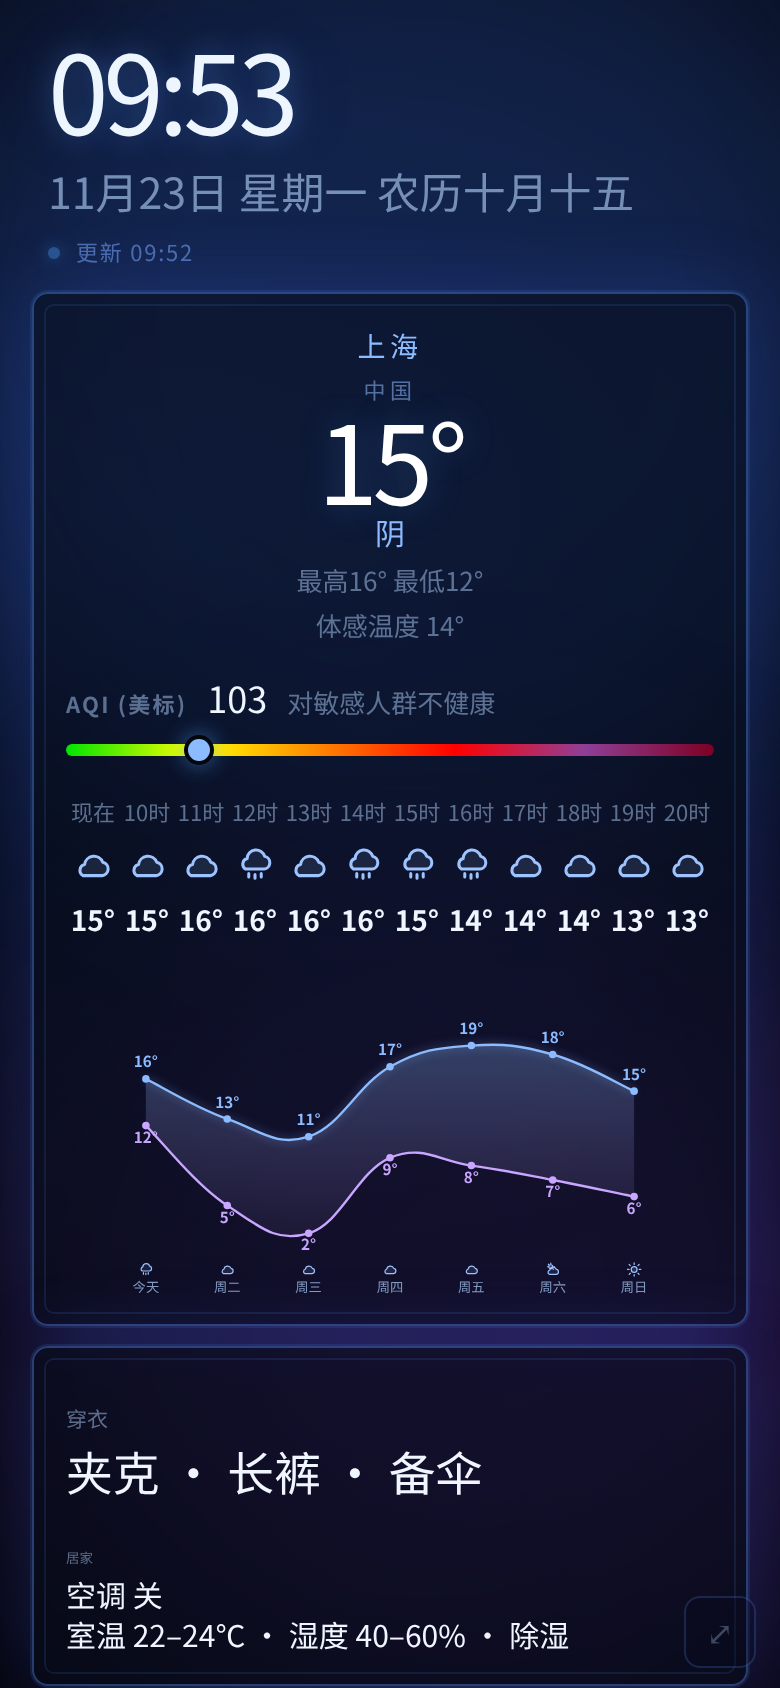
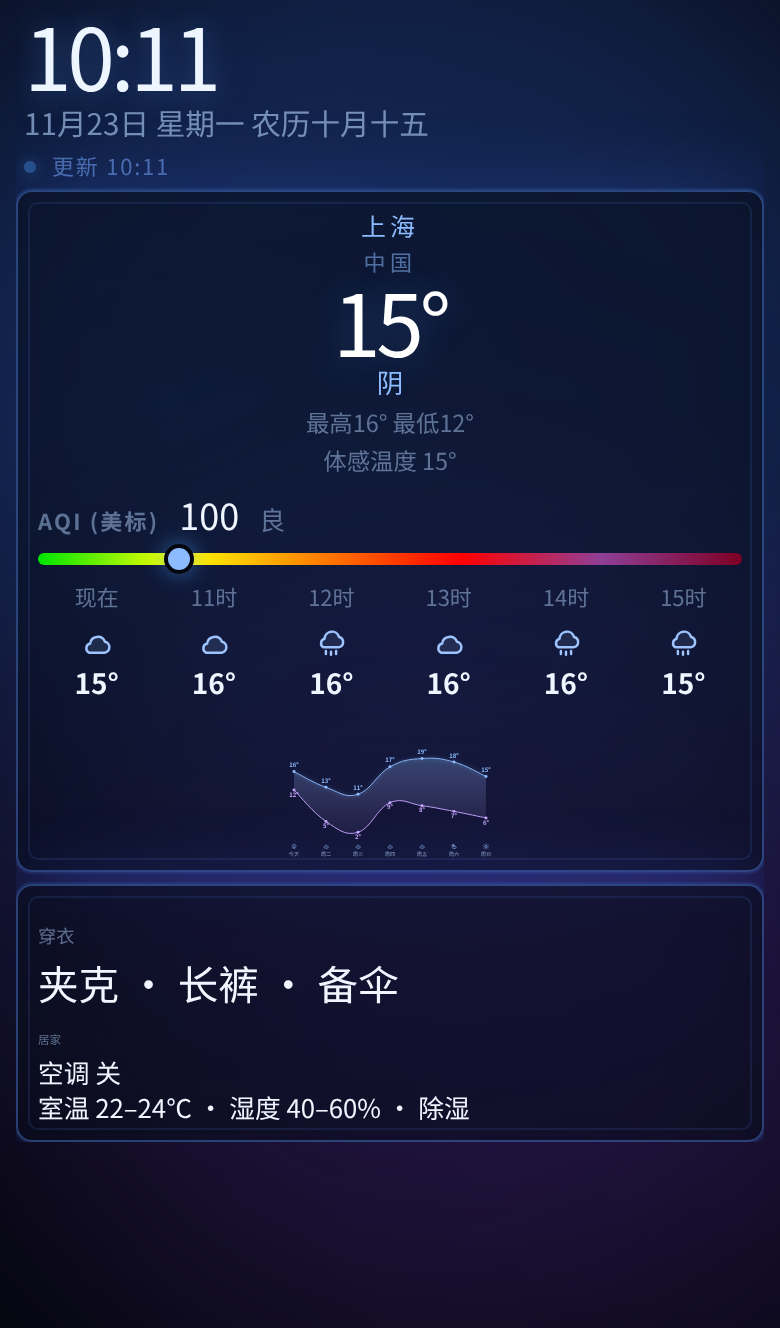
Fix phone portrait overflow and show place names
Keep all blocks on one portrait screen with a dvh/innerHeight
viewport, tighter type, a shorter week chart, and 6–8 hourly
slots. Reverse-geocode coordinates to a city or district name
via BigDataCloud, with Nominatim as fallback, and cache the result.

Changed region(s): [[0.0, 0.0, 0.9846, 1.0]]

diff --git a/index.html b/index.html
@@ -41,6 +41,7 @@
     height: 100%;
     height: 100vh;
     height: 100dvh;
+    height: var(--app-h, 100dvh);
     position: relative;
     background: #04060d;
     color: #dceaff;
@@ -87,6 +88,8 @@
     -webkit-flex: 1 1 auto;
     flex: 1 1 auto;
     min-height: 0;
+    height: 100%;
+    overflow: hidden;
     display: -webkit-box;
     display: -webkit-flex;
     display: flex;
@@ -387,17 +390,31 @@
   #fs-btn:hover, #fs-btn:focus { opacity: 1; outline: none; }
   #fs-btn.hidden { display: none; }
 
-  /* Narrow / portrait: time, weather, clothing stacked */
+  .fit-hide { display: none !important; }
+
+  /* Narrow / portrait: stack time, weather, clothing into one screen, no scroll */
   @media (orientation: portrait), (max-aspect-ratio: 1/1), (max-width: 700px) {
-    body { overflow: auto; height: auto; min-height: 100%; min-height: 100vh; min-height: 100dvh; }
+    html, body {
+      overflow: hidden;
+      height: 100%;
+      height: 100vh;
+      height: 100dvh;
+      height: var(--app-h, 100dvh);
+      min-height: 0;
+    }
+    body {
+      padding: 6px 8px;
+      padding: max(6px, env(safe-area-inset-top)) max(8px, env(safe-area-inset-right)) max(6px, env(safe-area-inset-bottom)) max(8px, env(safe-area-inset-left));
+    }
     .main {
       -webkit-flex-wrap: nowrap;
       flex-wrap: nowrap;
       -webkit-flex-direction: column;
       flex-direction: column;
-      height: auto;
-      min-height: calc(100vh - 24px);
-      min-height: calc(100dvh - 24px);
+      width: 100%;
+      height: 100%;
+      min-height: 0;
+      overflow: hidden;
     }
     .block-time, .block-wear, .block-weather {
       width: 100%;
@@ -405,30 +422,64 @@
     }
     .block-time {
       -webkit-box-ordinal-group: 2; -webkit-order: 1; order: 1;
-      padding: 8px 8px 12px;
+      padding: 2px 4px 4px;
+      -webkit-flex-shrink: 0;
+      flex-shrink: 0;
     }
     .block-weather {
       -webkit-box-ordinal-group: 3; -webkit-order: 2; order: 2;
       min-height: 0;
+      padding: 8px 10px 6px;
       -webkit-box-flex: 1; -webkit-flex: 1 1 auto; flex: 1 1 auto;
+      overflow: hidden;
     }
     .block-wear {
       -webkit-box-ordinal-group: 4; -webkit-order: 3; order: 3;
-      padding: 16px 16px;
-      margin-top: 10px;
+      padding: 8px 10px;
+      margin-top: 6px;
       -webkit-flex-shrink: 0;
       flex-shrink: 0;
     }
     #clock, #now-temp {
-      font-size: 64px;
-      font-size: 14vw;
-      font-size: clamp(52px, 14vw, 120px);
+      font-size: 44px;
+      font-size: 11vw;
+      font-size: clamp(36px, 11vw, 72px);
     }
     #date-line {
-      font-size: 20px;
-      font-size: clamp(18px, 5.5vw, 36px);
+      margin-top: 6px;
+      font-size: 15px;
+      font-size: clamp(13px, 3.8vw, 20px);
     }
-    .days { min-height: 120px; height: 18vh; }
+    #updated { margin-top: 4px; }
+    .loc { font-size: 13px; font-size: clamp(12px, 3.2vw, 16px); }
+    .loc-sub { font-size: 11px; margin-top: 1px; }
+    #now-desc { font-size: 14px; font-size: clamp(13px, 3.4vw, 16px); }
+    #now-hl, #now-feel { font-size: 12px; font-size: clamp(11px, 3vw, 14px); margin-top: 2px; }
+    .aqi { margin-top: 6px; }
+    .aqi-bar { margin-top: 6px; }
+    .hours { margin-top: 6px; }
+    .hour { padding: 2px 0 0; }
+    .hour .e { height: 22px; margin: 2px 0 1px; }
+    .hour .e svg { width: 18px; height: 18px; }
+    .hour .p { height: 14px; }
+    .days {
+      margin-top: 4px;
+      min-height: 0;
+      height: auto;
+      -webkit-box-flex: 1;
+      -webkit-flex: 1 1 auto;
+      flex: 1 1 auto;
+    }
+    .wear-row {
+      font-size: 22px;
+      font-size: clamp(16px, 5.2vw, 26px);
+      margin-bottom: 6px;
+    }
+    .wear-row.home {
+      font-size: 13px;
+      font-size: clamp(12px, 3.3vw, 16px);
+    }
+    #fs-btn { display: none; }
   }
 </style>
 </head>
@@ -730,12 +781,6 @@ var CONFIG = {
       if (onErr) onErr(e3);
     }
   }
-  function displayCity(name) {
-    if (!name) return "";
-    if (!isEn() && String(name).toLowerCase() === "shanghai") return "上海";
-    if (isEn() && name === "上海") return "Shanghai";
-    return name;
-  }
   function formatCoords(lat, lon) {
     var ns = lat >= 0 ? "N" : "S";
     var ew = lon >= 0 ? "E" : "W";
@@ -763,24 +808,123 @@ var CONFIG = {
     var url = "https://geocoding-api.open-meteo.com/v1/search?name=" + encodeURIComponent(name) + "&count=1&language=" + lang + "&format=json";
     getJSON(url, 10000, function (data) { cb(pickGeoResult(data)); }, function () { cb(null); });
   }
+  function shortPlace(name) {
+    var s = trim(name);
+    if (!s) return "";
+    s = s.replace(/(市|省|特别行政区|自治区|Municipality|Province|Prefecture|City)$/i, "");
+    return trim(s) || trim(name);
+  }
+  function geoCacheKey(lat, lon, lang) {
+    return "wcd-revgeo-v1:" + Number(lat).toFixed(2) + "," + Number(lon).toFixed(2) + ":" + lang;
+  }
+  function readGeoCache(lat, lon, lang) {
+    try {
+      var raw = localStorage.getItem(geoCacheKey(lat, lon, lang));
+      var o;
+      if (!raw) return null;
+      o = JSON.parse(raw);
+      if (!o || !o.name) return null;
+      if (o.at && ((new Date()).getTime() - o.at > 30 * 24 * 60 * 60 * 1000)) return null;
+      return { name: o.name, sub: o.sub || "", tz: o.tz || "" };
+    } catch (e) { return null; }
+  }
+  function writeGeoCache(lat, lon, lang, info) {
+    try {
+      localStorage.setItem(geoCacheKey(lat, lon, lang), JSON.stringify({
+        name: info.name, sub: info.sub || "", tz: info.tz || "", at: (new Date()).getTime()
+      }));
+    } catch (e) {}
+  }
+  function parseNominatim(data) {
+    var a, name, sub, i, opts;
+    if (!data || !data.address) return null;
+    a = data.address;
+    name = a.city || a.town || a.city_district || a.district || a.county || a.village || a.municipality || a.suburb || "";
+    if (!name) return null;
+    opts = [a.town, a.city_district, a.district, a.suburb, a.county, a.village, a.municipality];
+    sub = "";
+    for (i = 0; i < opts.length; i++) {
+      if (opts[i] && !samePlaceName(opts[i], name)) { sub = opts[i]; break; }
+    }
+    return { name: shortPlace(name), sub: sub, tz: "" };
+  }
+  function parseBDC(data) {
+    var name, sub, admins, i, lv, nm, info, tz, block, items;
+    if (!data) return null;
+    name = data.city || data.locality || "";
+    sub = data.locality || "";
+    info = data.localityInfo || {};
+    admins = info.administrative || [];
+    if (!name) {
+      for (i = 0; i < admins.length; i++) {
+        lv = Number(admins[i].adminLevel);
+        nm = admins[i].name || "";
+        if ((lv === 5 || lv === 6 || lv === 4) && nm) { name = nm; break; }
+      }
+    }
+    if (!name) return null;
+    if (samePlaceName(sub, name)) sub = "";
+    if (!sub) {
+      for (i = admins.length - 1; i >= 0; i--) {
+        lv = Number(admins[i].adminLevel);
+        nm = admins[i].name || "";
+        if (lv >= 6 && nm && !samePlaceName(nm, name)) { sub = nm; break; }
+      }
+    }
+    tz = "";
+    items = info.informative || [];
+    for (i = 0; i < items.length; i++) {
+      nm = items[i].name || "";
+      if (nm.indexOf("/") > 0 && nm.indexOf(" ") < 0) { tz = nm; break; }
+    }
+    return { name: shortPlace(name), sub: sub, tz: tz };
+  }
+  function reverseNominatim(lat, lon, lang, cb) {
+    var loc = (lang === "en") ? "en" : "zh-CN";
+    var url = "https://nominatim.openstreetmap.org/reverse?lat=" + encodeURIComponent(lat) +
+      "&lon=" + encodeURIComponent(lon) + "&format=jsonv2&accept-language=" + encodeURIComponent(loc);
+    getJSON(url, 8000, function (data) { cb(parseNominatim(data)); }, function () { cb(null); });
+  }
+  function reverseBDC(url, cb) {
+    getJSON(url, 8000, function (data) { cb(parseBDC(data)); }, function () { cb(null); });
+  }
   function reverseGeocode(lat, lon, cb) {
     var lang = isEn() ? "en" : "zh";
-    var url = "https://geocoding-api.open-meteo.com/v1/reverse?latitude=" + encodeURIComponent(lat) + "&longitude=" + encodeURIComponent(lon) + "&language=" + lang + "&format=json&count=1";
-    getJSON(url, 8000, function (data) { cb(pickGeoResult(data)); }, function () { cb(null); });
+    var locLang = isEn() ? "en" : "zh-Hans";
+    var cached = readGeoCache(lat, lon, lang);
+    var q1, q2;
+    if (cached && cached.name) { cb(cached); return; }
+    function finish(info) {
+      if (info && info.name) writeGeoCache(lat, lon, lang, info);
+      cb(info && info.name ? info : null);
+    }
+    q1 = "https://api.bigdatacloud.net/data/reverse-geocode-client?latitude=" + encodeURIComponent(lat) +
+      "&longitude=" + encodeURIComponent(lon) + "&localityLanguage=" + encodeURIComponent(locLang);
+    q2 = "https://api-bdc.io/data/reverse-geocode-client?latitude=" + encodeURIComponent(lat) +
+      "&longitude=" + encodeURIComponent(lon) + "&localityLanguage=" + encodeURIComponent(locLang);
+    reverseBDC(q1, function (info) {
+      if (info && info.name) { finish(info); return; }
+      reverseBDC(q2, function (info2) {
+        if (info2 && info2.name) { finish(info2); return; }
+        reverseNominatim(lat, lon, lang, finish);
+      });
+    });
   }
   function applyDefaultPlace() {
-    place.name = displayCity(cfg.city);
+    place.name = cfg.city || "";
     place.sub = cfg.citySub || "";
     place.lat = cfg.lat;
     place.lon = cfg.lon;
     place.tz = cfg.timezone || "UTC";
   }
-  function applyGeoInfo(info) {
+  function applyGeoInfo(info, coordsToo) {
     if (!info) return;
     if (info.name) place.name = info.name;
     if (info.sub != null) place.sub = info.sub;
-    if (info.lat != null) place.lat = info.lat;
-    if (info.lon != null) place.lon = info.lon;
+    if (coordsToo) {
+      if (info.lat != null) place.lat = info.lat;
+      if (info.lon != null) place.lon = info.lon;
+    }
     if (info.tz) place.tz = info.tz;
   }
   function updatePlaceLabels() {
@@ -824,7 +968,7 @@ var CONFIG = {
     if (city) {
       forwardGeocode(city, function (info) {
         if (info) {
-          applyGeoInfo(info);
+          applyGeoInfo(info, true);
           if (!place.name) place.name = city;
         } else applyDefaultPlace();
         finish();
@@ -1266,7 +1410,7 @@ var CONFIG = {
     var hours, html, i, h, label, p, nightHour, pack;
     if (!el) return;
     pack = t();
-    hours = hourlyFrom(currentHourStamp(d), 12);
+    hours = hourlyFrom(currentHourStamp(d), stripHourCount());
     html = "";
     for (i = 0; i < hours.length; i++) {
       h = hours[i];
@@ -1398,6 +1542,11 @@ var CONFIG = {
     renderStrip(d);
     renderWeekRow(d);
     updateStamp();
+    if (window.requestAnimationFrame) {
+      requestAnimationFrame(function () { fitLayout(); });
+    } else {
+      fitLayout();
+    }
   }
   function cacheKey() {
     return "weather-clock-dashboard-v1:" + Number(place.lat).toFixed(2) + "," + Number(place.lon).toFixed(2);
@@ -1503,6 +1652,80 @@ var CONFIG = {
       }
     } catch (e) {}
   }
+  function isPortraitLayout() {
+    var w = window.innerWidth || 0, h = window.innerHeight || 0;
+    if (window.matchMedia) {
+      try {
+        if (window.matchMedia("(orientation: portrait)").matches) return true;
+        if (window.matchMedia("(max-aspect-ratio: 1/1)").matches) return true;
+        if (window.matchMedia("(max-width: 700px)").matches) return true;
+      } catch (e) {}
+    }
+    return (h >= w) || (w > 0 && w <= 700);
+  }
+  function stripHourCount() {
+    var h;
+    if (!isPortraitLayout()) return 12;
+    h = window.innerHeight || 0;
+    return h < 700 ? 6 : 8;
+  }
+  function syncAppHeight() {
+    var h = 0;
+    try {
+      if (window.visualViewport && window.visualViewport.height) h = Math.round(window.visualViewport.height);
+    } catch (e1) {}
+    if (!h) h = window.innerHeight || 0;
+    if (h > 0) {
+      document.documentElement.style.setProperty("--app-h", h + "px");
+      document.documentElement.style.height = h + "px";
+      document.body.style.height = h + "px";
+    }
+  }
+  function layoutOverflow() {
+    var limit = window.innerHeight || document.documentElement.clientHeight || 0;
+    var main = document.querySelector(".main");
+    var sh = Math.max(document.body.scrollHeight || 0, document.documentElement.scrollHeight || 0, main ? (main.scrollHeight || 0) : 0);
+    return limit > 0 && sh > limit + 2;
+  }
+  function fitLayout() {
+    var ids, i, el;
+    syncAppHeight();
+    ids = ["loc-sub", "updated", "now-feel", "aqi-card", "hour-strip", "daily-row", "now-hl", "home-row"];
+    for (i = 0; i < ids.length; i++) {
+      el = document.getElementById(ids[i]);
+      if (el && el.className && el.className.indexOf("fit-hide") >= 0) {
+        el.className = el.className.replace(/\s?fit-hide/g, "");
+      }
+    }
+    if (!isPortraitLayout()) return;
+    for (i = 0; i < ids.length; i++) {
+      if (!layoutOverflow()) break;
+      el = document.getElementById(ids[i]);
+      if (!el) continue;
+      if ((" " + el.className + " ").indexOf(" fit-hide ") >= 0) continue;
+      el.className = trim(el.className + " fit-hide");
+    }
+  }
+  var fitTimer = null;
+  function onViewportChange() {
+    if (fitTimer) clearTimeout(fitTimer);
+    fitTimer = setTimeout(function () {
+      fitTimer = null;
+      syncAppHeight();
+      if (weather) renderAll();
+      else fitLayout();
+    }, 80);
+  }
+  function setupViewport() {
+    syncAppHeight();
+    if (!window.addEventListener) return;
+    window.addEventListener("resize", onViewportChange, false);
+    window.addEventListener("orientationchange", onViewportChange, false);
+    if (window.visualViewport && window.visualViewport.addEventListener) {
+      window.visualViewport.addEventListener("resize", onViewportChange, false);
+    }
+  }
+
   function setupCounter() {
     var id, img, src;
     try {
@@ -1559,10 +1782,12 @@ var CONFIG = {
     applyDefaultPlace();
     applyChrome();
     updatePlaceLabels();
+    setupViewport();
     tick();
     setInterval(tick, 1000);
     setupKeepAwake();
     setupCounter();
+    fitLayout();
     resolveLocation(function () {
       fakeBase = parseDemoNow();
       pageStart = (new Date()).getTime();
